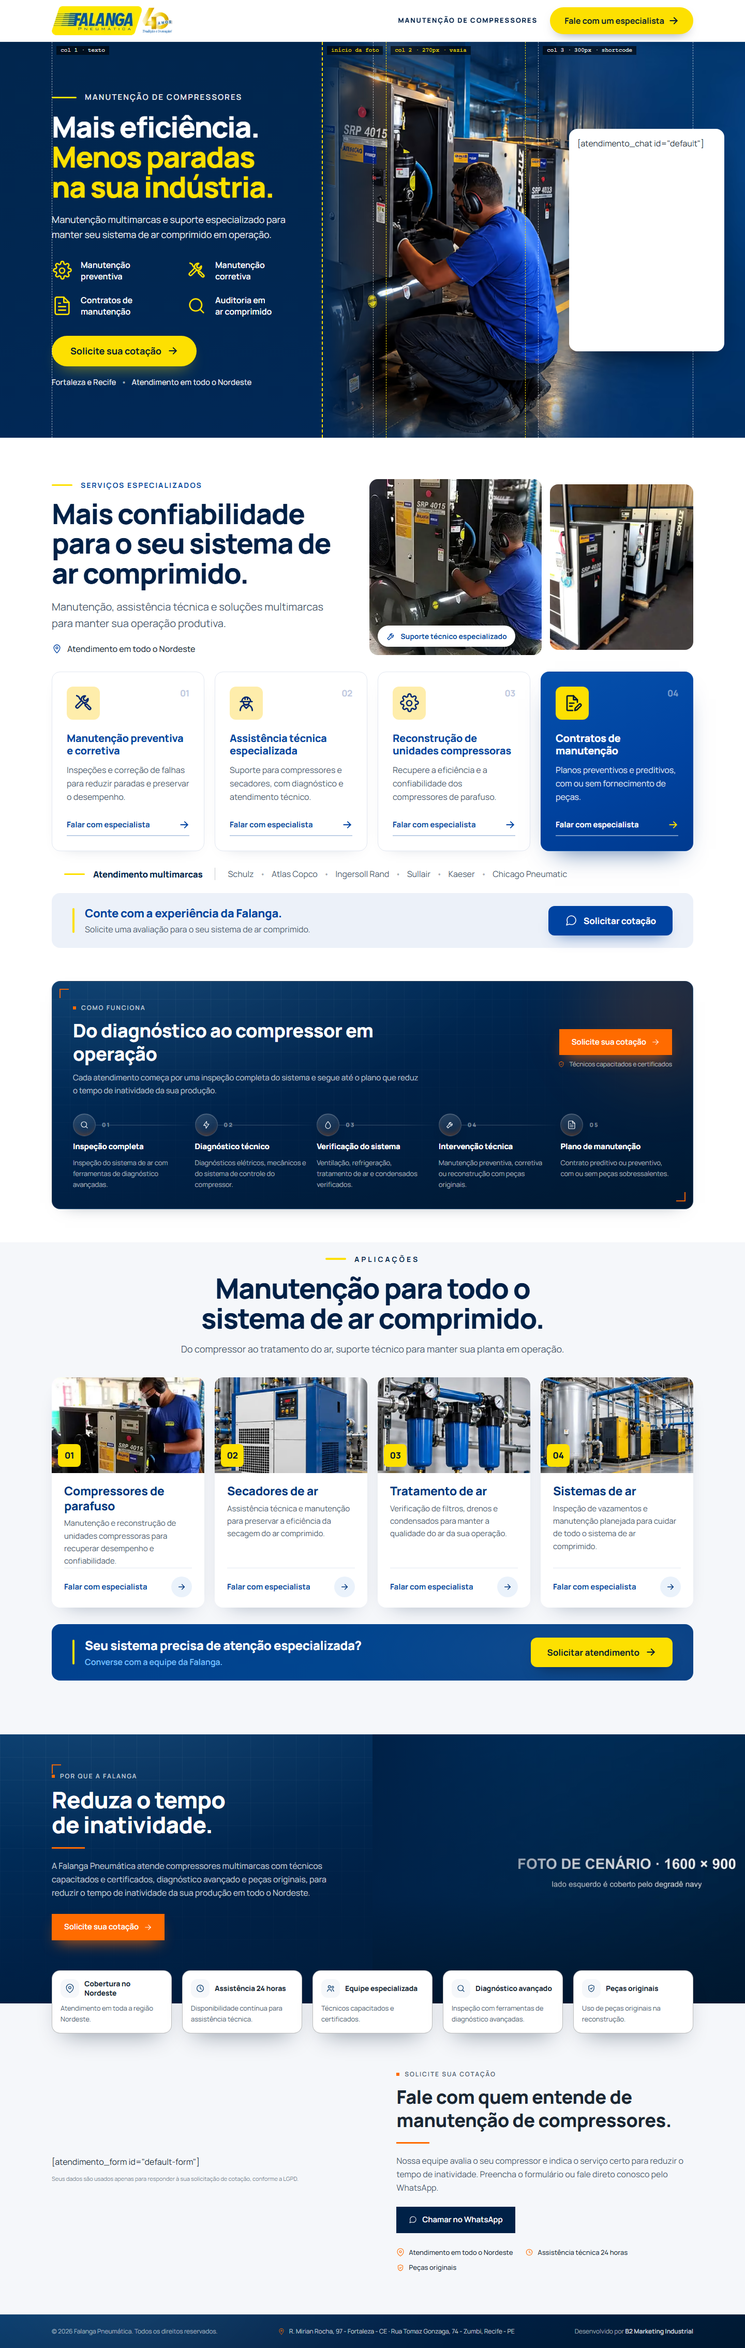
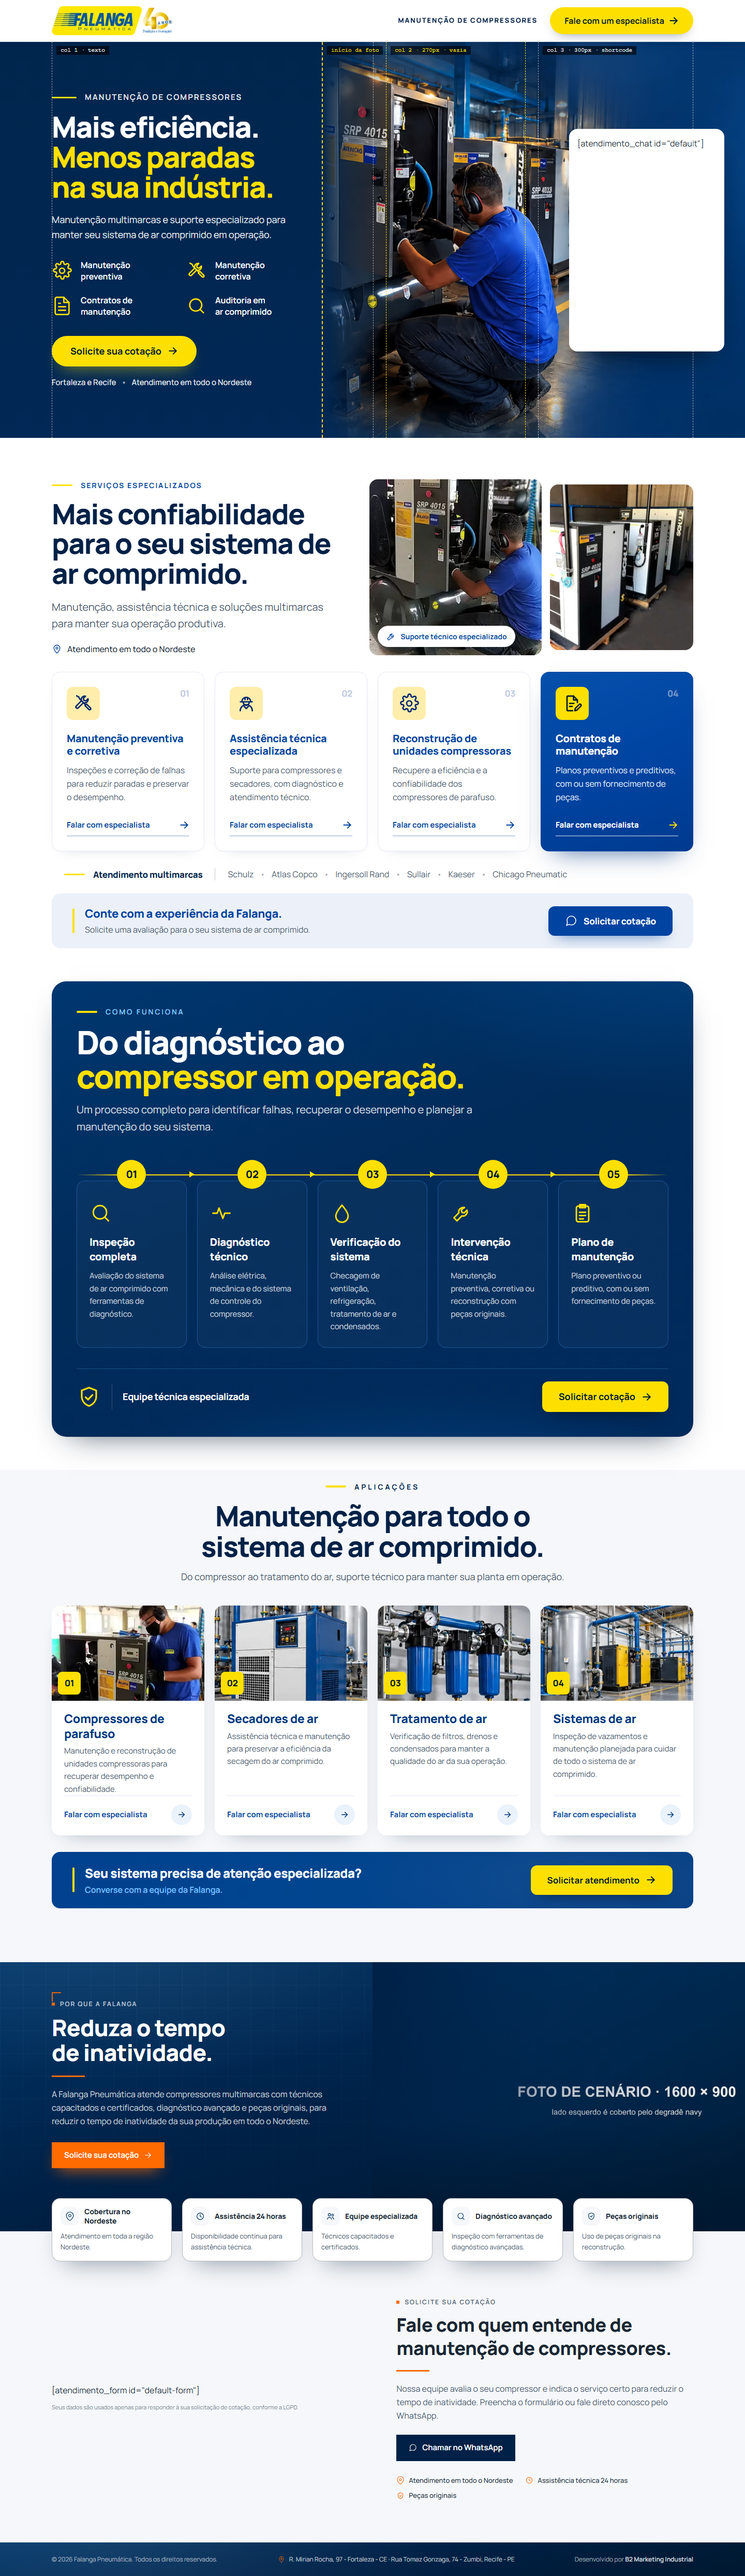
feat: reaplica o "Como funciona" conforme o mockup do cliente
Desfaz 5c84b3a a pedido do usuário, que reenviou o mesmo mockup: volta a
variante local de processo de c58ca84 — painel navy com "compressor em
operação." em amarelo, trilha de 5 etapas com círculos amarelos numerados,
cards contornados com ícone amarelo e faixa com o selo da equipe e o CTA
"Solicitar cotação". Voltam os ícones pulse, clipboard e shield-check.

diff --git a/src/data/sections/processo.ts b/src/data/sections/processo.ts
@@ -6,6 +6,9 @@
  *
  * Sem `when`: o cliente ainda não confirmou prazos que assuma publicamente
  * (docs/BRIEFING.md, pendências). Prazo inventado não entra.
+ *
+ * Copy do mockup do cliente (21/10/2026): o fim do título vai em amarelo
+ * (`highlight`), e o CTA da seção tem rótulo próprio (`cta`).
  */
 import type { IconName } from '@data/icons'
 
@@ -25,34 +28,40 @@ export interface ProcessStep {
 export interface Process {
   eyebrow: string
   title: string
+  /** Trecho final de `title` que vai em amarelo, em linha própria. */
+  highlight: string
   text: string
   microcopy: string
+  /** Rótulo do botão da seção. */
+  cta: string
   steps: readonly ProcessStep[]
 }
 
 export const process: Process = {
   eyebrow: 'Como funciona',
-  title: 'Do diagnóstico ao compressor em operação',
-  text: 'Cada atendimento começa por uma inspeção completa do sistema e segue até o plano que reduz o tempo de inatividade da sua produção.',
-  microcopy: 'Técnicos capacitados e certificados',
+  title: 'Do diagnóstico ao compressor em operação.',
+  highlight: 'compressor em operação.',
+  text: 'Um processo completo para identificar falhas, recuperar o desempenho e planejar a manutenção do seu sistema.',
+  microcopy: 'Equipe técnica especializada',
+  cta: 'Solicitar cotação',
   steps: [
     {
       id: 'inspecao',
       icon: 'search',
       title: 'Inspeção completa',
-      description: 'Inspeção do sistema de ar com ferramentas de diagnóstico avançadas.',
+      description: 'Avaliação do sistema de ar comprimido com ferramentas de diagnóstico.',
     },
     {
       id: 'diagnostico',
-      icon: 'bolt',
+      icon: 'pulse',
       title: 'Diagnóstico técnico',
-      description: 'Diagnósticos elétricos, mecânicos e do sistema de controle do compressor.',
+      description: 'Análise elétrica, mecânica e do sistema de controle do compressor.',
     },
     {
       id: 'verificacao',
       icon: 'droplet',
       title: 'Verificação do sistema',
-      description: 'Ventilação, refrigeração, tratamento de ar e condensados verificados.',
+      description: 'Checagem de ventilação, refrigeração, tratamento de ar e condensados.',
     },
     {
       id: 'intervencao',
@@ -62,9 +71,9 @@ export const process: Process = {
     },
     {
       id: 'plano',
-      icon: 'file',
+      icon: 'clipboard',
       title: 'Plano de manutenção',
-      description: 'Contrato preditivo ou preventivo, com ou sem peças sobressalentes.',
+      description: 'Plano preventivo ou preditivo, com ou sem fornecimento de peças.',
     },
   ],
 }

diff --git a/src/data/icons.ts b/src/data/icons.ts
@@ -56,6 +56,14 @@ export const iconPaths = {
   /** Documento com caneta: contrato de manutenção (mockup Falanga, 21/10/2026). */
   contract:
     '<path d="M13.5 3.5H7a1 1 0 0 0-1 1v15a1 1 0 0 0 1 1h5.5"/><path d="M13.5 3.5 18 8v3"/><path d="M13.5 3.5V8H18"/><path d="M9 12h5M9 15.5h3"/><path d="m15 20.5.5-2.6 4.6-4.6a1.3 1.3 0 0 1 1.9 1.9l-4.6 4.6Z"/>',
+  /** Linha de pulso: diagnóstico técnico (mockup Falanga, 21/10/2026). */
+  pulse: '<path d="M3 12h4.5l2-5.5 4 11 2-5.5H21"/>',
+  /** Prancheta com linhas: plano de manutenção (mockup Falanga, 21/10/2026). */
+  clipboard:
+    '<rect x="5.5" y="4.5" width="13" height="16.5" rx="2"/><path d="M9 3h6v3.2H9z"/><path d="M8.8 11h6.4M8.8 14.5h6.4M8.8 18h4"/>',
+  /** Escudo com check: selo de equipe especializada (mockup Falanga, 21/10/2026). */
+  'shield-check':
+    '<path d="M12 3 19 5.8v5.6c0 4.5-3 7.8-7 9.3-4-1.5-7-4.8-7-9.3V5.8Z"/><path d="m8.7 12.2 2.4 2.4 4.3-4.5"/>',
   clock: '<circle cx="12" cy="12" r="8.5"/><path d="M12 7v5.2l3.5 2"/>',
   zap: '<path d="M13 3 6 13.5h5L10 21l7.5-10.5h-5L13 3Z"/>',
   'map-pin':

diff --git a/docs/BRIEFING.md b/docs/BRIEFING.md
@@ -183,6 +183,23 @@ A Schulz entrou na lista de marcas da ficha e a família de palavras-chave Schul
 
 As fotos do site têm 450×451 e 680×682: servem na largura em que aparecem, mas ficam suaves em tela de alta densidade. Vale pedir os originais.
 
+## Desvios do padrão — como funciona (21/10/2026)
+
+A seção `processo` foi refeita conforme o mockup "Do diagnóstico ao compressor em operação", que o cliente enviou em 21/10/2026. É uma **variante local** de `src/components/sections/ProcessSteps.astro`, como as outras, e **`npm run compose` desfaz a variante**.
+
+| O que o mockup pedia                                                   | Como entrou                                                                        | Regra do padrão afetada         |
+| ---------------------------------------------------------------------- | ---------------------------------------------------------------------------------- | ------------------------------- |
+| Painel navy sem malha blueprint nem cantos laranja, com brilho azul    | igual; o painel continua sendo o bloco navy da primeira metade da página           | receita do painel navy (item 7) |
+| Fim do título em amarelo                                               | campo `highlight` em `processo.ts` e na ficha; em linha própria a partir do tablet | —                               |
+| Trilha com círculos amarelos numerados, linha e setas                  | igual a partir do desktop; no mobile, os cards empilham com o número no topo       | —                               |
+| Cada etapa num card contornado, com ícone amarelo                      | igual; ícones novos `pulse`, `clipboard` e `shield-check`                          | —                               |
+| Faixa final com "Equipe técnica especializada" e "Solicitar cotação →" | `microcopy` e o rótulo `cta` da seção; o botão é o `processo-cta`                  | vocabulário de CTA (item 8)     |
+| Logo da Falanga num card branco no canto                               | **não entrou** — a logo já está no header fixo                                     | —                               |
+
+A copy das cinco etapas foi trocada pela do mockup, sem prazos (`when`). O cliente ainda não confirmou prazos que assuma publicamente.
+
+O painel segue a largura do container do padrão (1320px). Por isso, em telas largas os títulos das etapas quebram em duas linhas, onde o mockup, mais largo, mostra uma.
+
 ## Desvios do padrão — aplicações (21/10/2026)
 
 A seção `aplicacoes` foi refeita conforme o mockup "Manutenção para todo o sistema de ar comprimido", que o cliente enviou em 21/10/2026. É uma **variante local** de `src/components/sections/ApplicationsGallery.astro`, e **`npm run compose` desfaz a variante**.

diff --git a/docs/FICHA-LP.md b/docs/FICHA-LP.md
@@ -215,30 +215,32 @@ blocos:
     responde: [manutencao, assistencia]
     papeis: [Manutenção, Engenharia]
     eyebrow: Como funciona
-    title: Do diagnóstico ao compressor em operação
-    microcopy: Técnicos capacitados e certificados
-    text: Cada atendimento começa por uma inspeção completa do sistema e segue até o plano que reduz o tempo de inatividade da sua produção.
+    title: Do diagnóstico ao compressor em operação.
+    highlight: compressor em operação.
+    microcopy: Equipe técnica especializada
+    text: Um processo completo para identificar falhas, recuperar o desempenho e planejar a manutenção do seu sistema.
+    cta: Solicitar cotação
     steps:
       - id: inspecao
         icon: search
         title: Inspeção completa
-        description: Inspeção do sistema de ar com ferramentas de diagnóstico avançadas.
+        description: Avaliação do sistema de ar comprimido com ferramentas de diagnóstico.
       - id: diagnostico
-        icon: bolt
+        icon: pulse
         title: Diagnóstico técnico
-        description: Diagnósticos elétricos, mecânicos e do sistema de controle do compressor.
+        description: Análise elétrica, mecânica e do sistema de controle do compressor.
       - id: verificacao
         icon: droplet
         title: Verificação do sistema
-        description: Ventilação, refrigeração, tratamento de ar e condensados verificados.
+        description: Checagem de ventilação, refrigeração, tratamento de ar e condensados.
       - id: intervencao
         icon: wrench
         title: Intervenção técnica
         description: Manutenção preventiva, corretiva ou reconstrução com peças originais.
       - id: plano
-        icon: file
+        icon: clipboard
         title: Plano de manutenção
-        description: Contrato preditivo ou preventivo, com ou sem peças sobressalentes.
+        description: Plano preventivo ou preditivo, com ou sem fornecimento de peças.
 
   aplicacoes:
     veredicto: completo
